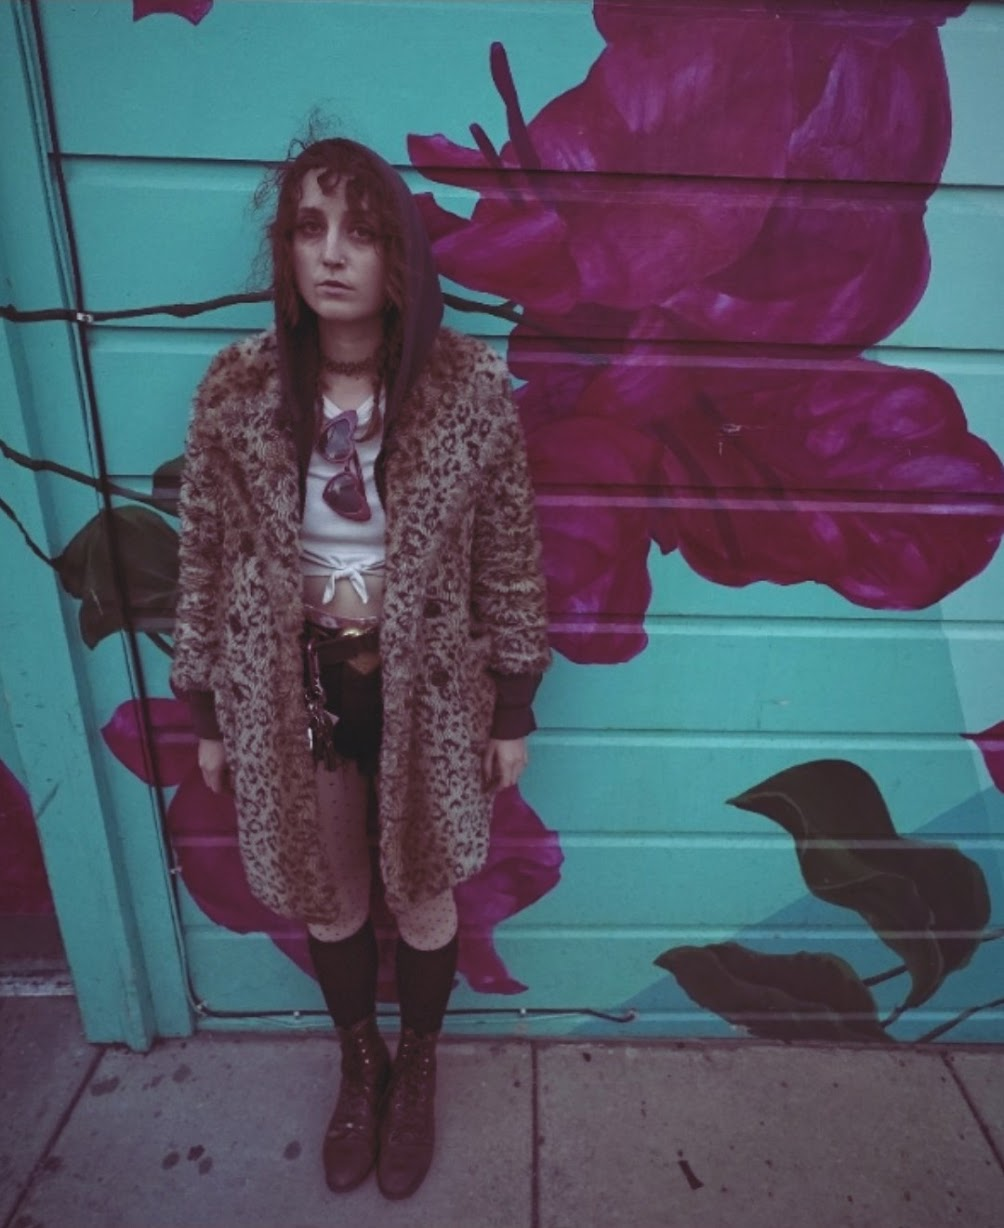
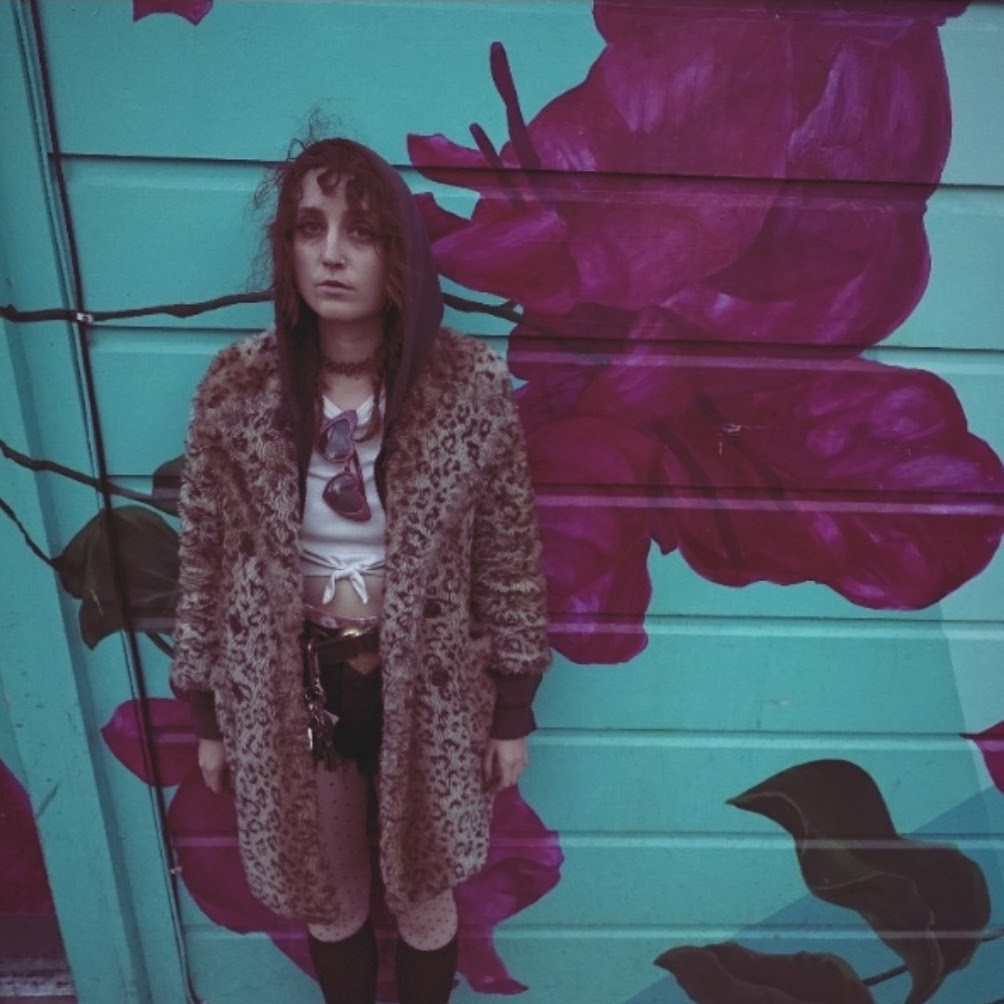
new photo

diff --git a/index.html b/index.html
@@ -119,7 +119,7 @@
                     <!-- Portfolio Item 4-->
                     <div class="col-md-6 col-lg-4 mb-5 mb-lg-0">
                         <div class="portfolio-item mx-auto">
-                            <img class="img-fluid rounded-edges" src="assets/img/portfolio/sofie4.jpeg" alt="..." />
+                            <img class="img-fluid rounded-edges" src="assets/img/portfolio/sofie8.jpg" alt="..." />
                         </div>
                     </div>
                     <!-- Portfolio Item 5-->
